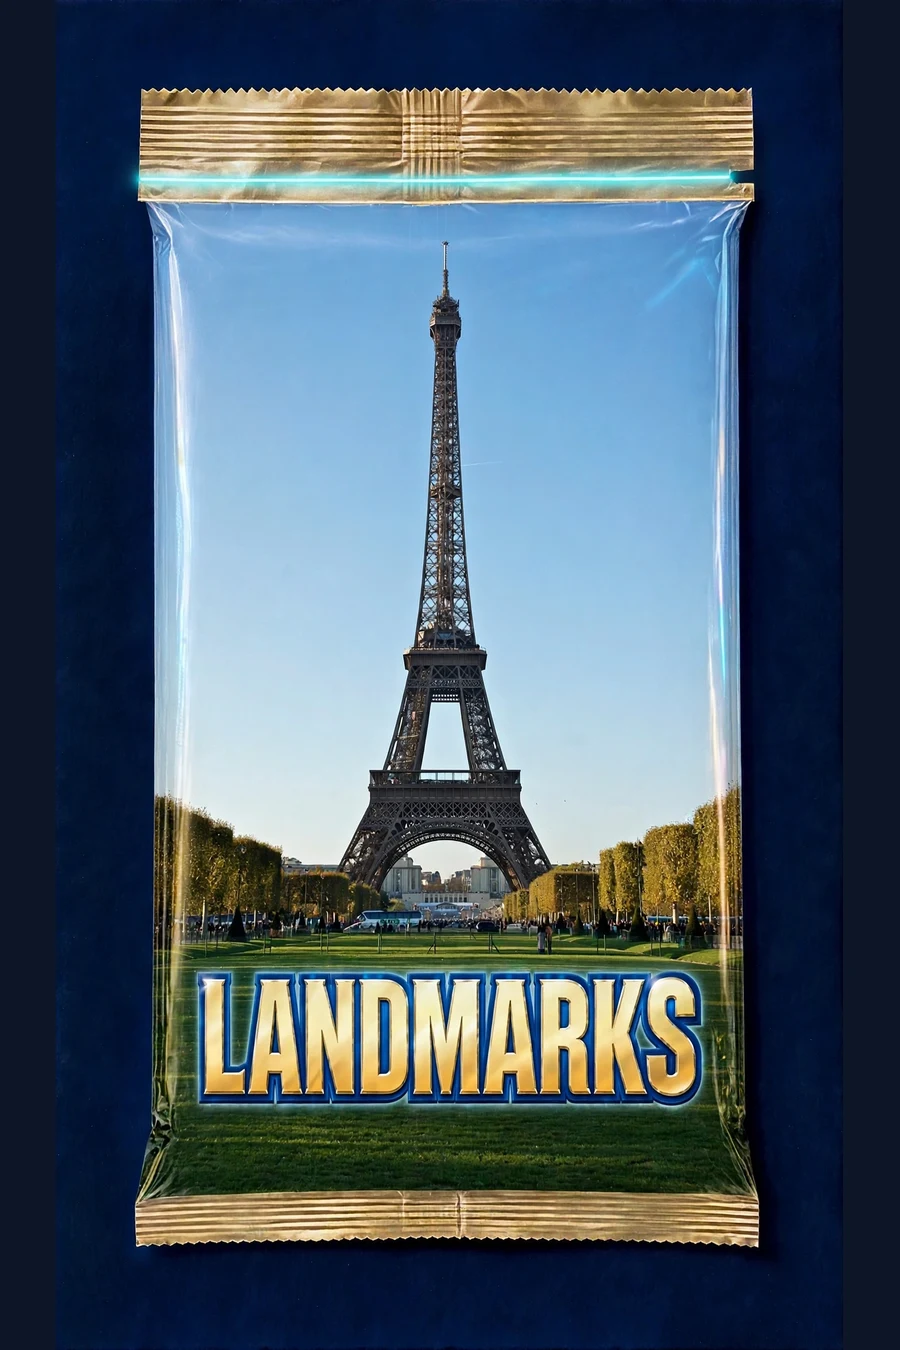
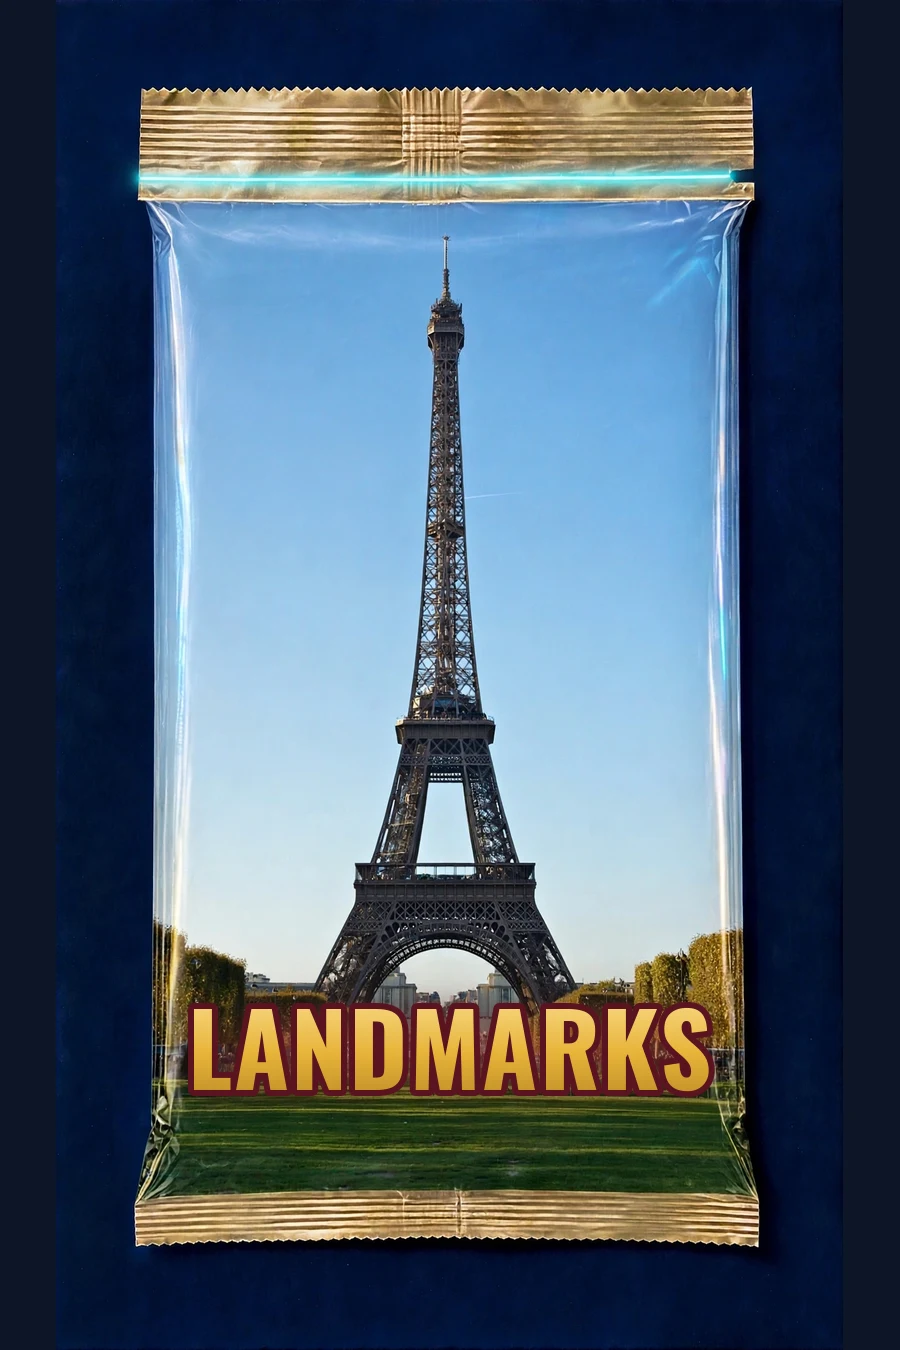
Unify pack word and Passport headers on one Oswald letterform
Per the Opus style consult (Direction 3) and Sean's approval of the
Landmarks pilot: pack words lose the chrome bevel and are now composited
by script (scripts/pack-word/composite.py) in Oswald 700 onto word-free
pack art: gold gradient fill, per-pack ink edge, per-pack glow. Passport
pack headers drop the pack art thumbnail for the same word set flat in
the pack ink color, with a glow-color accent bar and progress fill;
Oswald is self-hosted (assets/oswald-bold.woff2) so both surfaces share
the exact letterform. Daily & Expeditions keeps its envelope header.

Changed region(s): [[0.1556, 0.0622, 0.84, 0.9333]]

diff --git a/src/styles/game.css b/src/styles/game.css
@@ -1068,10 +1068,15 @@ body.game-stats #hud { opacity: 0; }
 .pp-slot.is-mystery .pp-slot-name { color: rgba(214,220,232,.4); letter-spacing: .1em; text-align: center; }
 .pp-pack-progress { margin: 7px 40px 12px 0; color: rgba(var(--rgb-muted),.68); font-size: var(--fs-small); font-weight: 700; font-variant-numeric: tabular-nums; }
 .pp-pack-section { margin-top: 8px; border: 1px solid rgba(var(--rgb-line),.12); border-radius: 12px; overflow: hidden; background: rgba(var(--rgb-line),.025); }
-.pp-pack-head { display: grid; grid-template-columns: 42px minmax(0,1fr) auto 12px; align-items: center; gap: 10px; width: 100%; min-height: 58px; padding: 7px 10px; border: 0; background: var(--mail-paper); color: #22355c; font: inherit; text-align: left; cursor: pointer; touch-action: manipulation; }
-.pp-pack-head img { width: 38px; height: 44px; border-radius: 4px; object-fit: cover; box-shadow: 0 2px 5px rgba(32,36,48,.28); }
+@font-face { font-family: 'Oswald'; src: url('../../assets/oswald-bold.woff2') format('woff2'); font-weight: 700; font-display: swap; }
+.pp-pack-head { display: grid; grid-template-columns: 4px minmax(0,1fr) auto 12px; align-items: center; gap: 10px; width: 100%; min-height: 48px; padding: 7px 10px 10px 0; border: 0; background: var(--mail-paper); color: #22355c; font: inherit; text-align: left; cursor: pointer; touch-action: manipulation; position: relative; }
+.pp-pack-head-mail { grid-template-columns: 42px minmax(0,1fr) auto 12px; min-height: 58px; padding: 7px 10px; }
+.pp-pack-bar { width: 4px; align-self: stretch; }
+.pp-pack-track { position: absolute; left: 0; right: 0; bottom: 0; height: 3px; background: rgba(52,72,96,.12); }
+.pp-pack-fill { display: block; height: 100%; }
 .pp-pack-mail { display: grid; place-items: center; width: 38px; height: 38px; border: 1px solid rgba(52,72,96,.25); border-radius: 50%; color: #9b3d42; font-size: 19px; }
 .pp-pack-title { overflow: hidden; font-size: 14px; font-weight: 850; text-overflow: ellipsis; white-space: nowrap; }
+.pp-pack-head:not(.pp-pack-head-mail) .pp-pack-title { font-family: 'Oswald', 'Arial Narrow', sans-serif; font-size: 18px; font-weight: 700; letter-spacing: .05em; text-transform: uppercase; }
 .pp-pack-count { color: rgba(52,72,96,.72); font-size: var(--fs-small); font-weight: 750; font-variant-numeric: tabular-nums; }
 .pp-pack-chevron { width: 7px; height: 7px; margin-top: -4px; border-right: 2px solid rgba(52,72,96,.6); border-bottom: 2px solid rgba(52,72,96,.6); transform: rotate(45deg); transition: transform .15s ease-out; }
 .pp-pack-head[aria-expanded="true"] .pp-pack-chevron { margin-top: 4px; transform: rotate(225deg); }

diff --git a/src/meta/passport.js b/src/meta/passport.js
@@ -585,15 +585,20 @@ function renderPassportPage() {
   const cardNumbers = packCardNumberMap(host.locations, host.landmarks || []);
   ppEls.packProgress.textContent = `${data.collected.toLocaleString()} / ${data.total.toLocaleString()} pack postcards collected`;
   const frag = document.createDocumentFragment();
-  const addSection = ({ type, name, art, items, collected, total }, packSection = true) => {
+  const addSection = ({ type, name, art, ink, glow, items, collected, total }, packSection = true) => {
     const section = document.createElement('section');
     section.className = 'pp-pack-section';
     section.dataset.pack = type;
     const head = document.createElement('button');
-    head.className = 'pp-pack-head';
+    head.className = packSection ? 'pp-pack-head' : 'pp-pack-head pp-pack-head-mail';
     head.type = 'button';
     const progress = packSection ? `${collected.toLocaleString()} / ${total.toLocaleString()}` : `${collected.toLocaleString()} collected`;
-    head.innerHTML = `${art ? `<img src="${art}" alt="">` : '<span class="pp-pack-mail" aria-hidden="true">✉</span>'}<span class="pp-pack-title"></span><span class="pp-pack-count"></span><span class="pp-pack-chevron" aria-hidden="true"></span>`;
+    if (packSection) {
+      const pct = total ? Math.round((collected / total) * 1000) / 10 : 0;
+      head.innerHTML = `<span class="pp-pack-bar" style="background:${glow}" aria-hidden="true"></span><span class="pp-pack-title" style="color:${ink}"></span><span class="pp-pack-count"></span><span class="pp-pack-chevron" aria-hidden="true"></span><span class="pp-pack-track" aria-hidden="true"><span class="pp-pack-fill" style="background:${glow};width:${pct}%"></span></span>`;
+    } else {
+      head.innerHTML = '<span class="pp-pack-mail" aria-hidden="true">✉</span><span class="pp-pack-title"></span><span class="pp-pack-count"></span><span class="pp-pack-chevron" aria-hidden="true"></span>';
+    }
     head.querySelector('.pp-pack-title').textContent = name;
     head.querySelector('.pp-pack-count').textContent = progress;
     const grid = document.createElement('ul');

diff --git a/src/meta/passport-packs.js b/src/meta/passport-packs.js
@@ -1,9 +1,9 @@
 import { packPool, landmarkPackPool, landformPackPool } from './pack-store.js';
 
 export const PASSPORT_PACKS = [
-  { type: 'capitals', name: 'Capitals', art: 'assets/pack-world-capitals.webp' },
-  { type: 'landmarks', name: 'Landmarks', art: 'assets/pack-landmarks.webp' },
-  { type: 'landforms', name: 'Landforms', art: 'assets/pack-landforms.webp' },
+  { type: 'capitals', name: 'Capitals', art: 'assets/pack-world-capitals.webp', ink: '#0B2A6B', glow: '#3FA9FF' },
+  { type: 'landmarks', name: 'Landmarks', art: 'assets/pack-landmarks.webp', ink: '#5A1420', glow: '#FF6B57' },
+  { type: 'landforms', name: 'Landforms', art: 'assets/pack-landforms.webp', ink: '#0F3D33', glow: '#3ED9A0' },
 ];
 
 const nameOf = (item) => item.short || item.clue || '';

diff --git a/scripts/pack-word/composite.py b/scripts/pack-word/composite.py
@@ -1,0 +1,85 @@
+#!/usr/bin/env python3
+"""Composite a pack word onto word-free pack art (Opus spec, 2026-11-01).
+
+One typeface everywhere: Oswald 700 caps. The same font file renders the
+Passport headers in CSS, so the letterform matches exactly. Spec: font
+size 100 (LANDMARKS, the longest word, lands ~540 px wide), tracking
++0.02em, baseline y=1090 on the 900x1350 art, gold gradient fill
+#FFE9A6 -> #E8B53A (55%) -> #B07F22, 6 px ink edge, pack glow at 45%
+opacity blurred 20 px, drop shadow 0/4/10 rgba(0,0,0,.35). No bevel.
+
+Usage: composite.py <word-free-image> <WORD> <ink-hex> <glow-hex> <out.webp>
+"""
+import sys
+from PIL import Image, ImageDraw, ImageFont, ImageFilter
+import numpy as np
+
+NAVY = (13, 21, 38)
+FONT = __file__.rsplit('/', 1)[0] + '/Oswald-Bold.ttf'
+SIZE = 100
+BASELINE = 1090
+STROKE = 6
+
+def frame(img):
+    a = np.asarray(img.convert('RGB')).astype(int)
+    mask = (np.abs(a - np.array(NAVY)).sum(axis=2) > 40)
+    ys, xs = np.where(mask)
+    crop = img.convert('RGB').crop((xs.min(), ys.min(), xs.max() + 1, ys.max() + 1))
+    canvas = Image.new('RGB', (900, 1350), NAVY)
+    canvas.paste(crop.resize((787, 1350), Image.LANCZOS), (56, 0))
+    return canvas.convert('RGBA')
+
+def word_layer(word, ink):
+    font = ImageFont.truetype(FONT, SIZE)
+    track = int(round(0.02 * SIZE))
+    widths = [font.getlength(c) for c in word]
+    total = sum(widths) + track * (len(word) - 1)
+    pad = 80
+    asc, desc = font.getmetrics()
+    layer = Image.new('RGBA', (int(total) + 2 * pad + 2 * STROKE, asc + desc + 2 * pad + 2 * STROKE), (0, 0, 0, 0))
+    d = ImageDraw.Draw(layer)
+    x = y = pad + STROKE
+    cx = x
+    for c, w in zip(word, widths):
+        d.text((cx, y), c, font=font, fill=ink, stroke_width=STROKE, stroke_fill=ink)
+        cx += w + track
+    gm = Image.new('L', layer.size, 0)
+    gd = ImageDraw.Draw(gm)
+    cx = x
+    for c, w in zip(word, widths):
+        gd.text((cx, y), c, font=font, fill=255)
+        cx += w + track
+    stops = [(0.0, (255, 233, 166)), (0.55, (232, 181, 58)), (1.0, (176, 127, 34))]
+    ga = np.zeros((layer.size[1], layer.size[0], 3), dtype=np.uint8)
+    for yy in range(y, y + asc + desc):
+        t = (yy - y) / max(1, asc + desc)
+        col = stops[-1][1]
+        for i in range(len(stops) - 1):
+            if stops[i][0] <= t <= stops[i + 1][0]:
+                tt = (t - stops[i][0]) / (stops[i + 1][0] - stops[i][0])
+                col = tuple(int(stops[i][1][k] + (stops[i + 1][1][k] - stops[i][1][k]) * tt) for k in range(3))
+        ga[yy, :, :] = col
+    layer.paste(Image.fromarray(ga).convert('RGBA'), (0, 0), gm)
+    return layer, asc, pad
+
+def main():
+    src, word, ink, glow, out = sys.argv[1:6]
+    base = frame(Image.open(src))
+    base.save(out.rsplit('.', 1)[0] + '-base.png')
+    layer, asc, pad = word_layer(word, ink)
+    sil = layer.split()[3]
+    wx = int(450 - layer.size[0] / 2)
+    wy = int(BASELINE - asc - pad - STROKE)
+    gr, gg, gb = (int(glow[i:i + 2], 16) for i in (1, 3, 5))
+    shadow = Image.new('RGBA', base.size, (0, 0, 0, 0))
+    shadow.paste(Image.new('RGBA', layer.size, (0, 0, 0, int(255 * 0.35))), (wx, wy + 4), sil.filter(ImageFilter.GaussianBlur(10)))
+    base = Image.alpha_composite(base, shadow)
+    glow_img = Image.new('RGBA', base.size, (0, 0, 0, 0))
+    glow_img.paste(Image.new('RGBA', layer.size, (gr, gg, gb, int(255 * 0.45))), (wx, wy), sil.filter(ImageFilter.GaussianBlur(20)))
+    base = Image.alpha_composite(base, glow_img)
+    base.paste(layer, (wx, wy), layer)
+    base.convert('RGB').save(out, 'WEBP', quality=88)
+    print(out, 'word width approx', layer.size[0] - 2 * pad)
+
+if __name__ == '__main__':
+    main()
